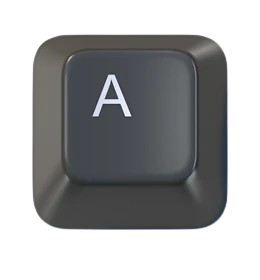
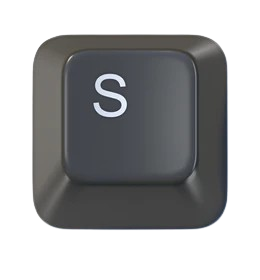
add Buttons

Changed region(s): [[0.3385, 0.2571, 0.5231, 0.4286]]

diff --git a/Deliverable 3/src/main/java/edu/vanier/template/controllers/GameFXMLController.java b/Deliverable 3/src/main/java/edu/vanier/template/controllers/GameFXMLController.java
@@ -83,7 +83,7 @@ public class GameFXMLController {
     BackpackFXMLController backpackFXMLController;
     MapFXMLController mapFXMLController;
 
-    public void addPlatforms(List<Platform> platformList) {
+    public void setWorldSprites(List<Platform> platformList) {
         if (currentFamily.getLayoutType().equals("A")) {
             Platform.setPlatformsTypeA(currentFamily, platformList);
         } else if (currentFamily.getLayoutType().equals("B")) {
@@ -101,7 +101,6 @@ public class GameFXMLController {
         } else if (currentFamily.getLayoutType().equals("3.2")) {
             Platform.setPlatformsType32(currentFamily, platformList);
         }
-
     }
 
     public void setWorld() {
@@ -162,7 +161,7 @@ public class GameFXMLController {
         Platform platformFloor = new Platform(0, (int)BaseWindow.sceneHeight - 100, "floor", (int)BaseWindow.sceneWidth, 100, imgPlatformFloor);
         Canvas canvas = new Canvas(BaseWindow.sceneWidth, BaseWindow.sceneHeight);
         mainPane.getChildren().addAll(canvas, platformFloor);
-        addPlatforms(platformList);
+        setWorldSprites(platformList);
 
         Portal portal = new Portal((int)BaseWindow.sceneWidth - 30, (int)BaseWindow.sceneHeight - 200 - (int)platformFloor.getHeight(), 30, 200, imgPortal, QUESTIONEX2_SCENE);
         //user should first build the atom, below line directs them to build atom after collecting electrons and protons from the game scene
@@ -190,25 +189,30 @@ public class GameFXMLController {
         player.setBounds(0,(int) canvas.getWidth(), 0,
                 (int) canvas.getHeight() - (int) platformFloor.getHeight());
 
-        List<Sprite> electronList = new ArrayList<>();
-        List<Sprite> protonList = new ArrayList<>();
+        //TODO: Generalize this code from being electrons and protons to being any sprite
+        List<Sprite> sprite1List = new ArrayList<>();
+        List<Sprite> sprite2List = new ArrayList<>();
 
         for (int i = 0; i < 15; i++) {
+            //TODO: generalize
             Sprite electron = new Sprite("electron", electronImg);
+            Sprite proton = new Sprite("proton", protonImg);
             electron.setSize(30 * BaseWindow.sceneHeight / 770);
+            proton.setSize(30 * BaseWindow.sceneHeight / 770);
             electron.setImage(electronImg);
+            proton.setImage(protonImg);
+
+            //position should be set with  the rest of the platforms
             double px1 = BaseWindow.sceneWidth * 0.7 * Math.random() + 50;
             double py1 = BaseWindow.sceneHeight * 0.7 * Math.random() + 50;
-            electron.setPosition(px1, py1);
-            electronList.add(electron);
-            Sprite proton = new Sprite("proton", protonImg);
-            proton.setSize(30 * BaseWindow.sceneHeight / 770);
-            proton.setImage(protonImg);
+
             double px = BaseWindow.sceneWidth * 0.7 * Math.random() + 50;
             double py = BaseWindow.sceneHeight * 0.7 * Math.random() + 50;
-            proton.setPosition(px, py);
-            protonList.add(proton);
 
+            electron.setPosition(px1, py1);
+            proton.setPosition(px, py);
+            sprite2List.add(proton);
+            sprite1List.add(electron);
         }
 
         animation = new AnimationTimer() {
@@ -312,11 +316,12 @@ public class GameFXMLController {
                     portal.unlock();
 
                 // Electron collection logic
-                Iterator<Sprite> electronIter = electronList.iterator();
-                while (electronIter.hasNext()) {
-                    Sprite electron = electronIter.next();
+                Iterator<Sprite> sprite1Iter = sprite1List.iterator();
+                while (sprite1Iter.hasNext()) {
+                    //TODO for logic of electron check if name is electron
+                    Sprite electron = sprite1Iter.next();
                     if (player.intersects(electron)) {
-                        electronIter.remove();
+                        sprite1Iter.remove();
                         itemClip.play();
                         System.out.println("interacting with a sprite");
                         score--;
@@ -334,11 +339,11 @@ public class GameFXMLController {
                         //we'll also need protons but this can be done for deliverable three (the differentiation)
                     }
                 }
-                Iterator<Sprite> protonIter = protonList.iterator();
-                while (protonIter.hasNext()) {
-                    Sprite proton = protonIter.next();
+                Iterator<Sprite> sprite2Iter = sprite2List.iterator();
+                while (sprite2Iter.hasNext()) {
+                    Sprite proton = sprite2Iter.next();
                     if (player.intersects(proton)) {
-                        protonIter.remove();
+                        sprite2Iter.remove();
                         itemClip.play();
                         score++;
                         protonNum++;
@@ -359,10 +364,10 @@ public class GameFXMLController {
                 gc.clearRect(0, 0, canvasWidth, canvasHeight);
                 player.render(gc);
                 portal.render(gc);
-                for (Sprite electron : electronList) {
+                for (Sprite electron : sprite1List) {
                     electron.render(gc);
                 }
-                for (Sprite proton : protonList) {
+                for (Sprite proton : sprite2List) {
                     proton.render(gc);
                 }
 
@@ -416,8 +421,8 @@ public class GameFXMLController {
                     reuploadedSprite.setPosition(positionX, positionY);
 
                     switch (spriteType) {
-                        case "electron" -> electronList.add(reuploadedSprite);
-                        case "proton" -> protonList.add(reuploadedSprite);
+                        case "electron" -> sprite1List.add(reuploadedSprite);
+                        case "proton" -> sprite2List.add(reuploadedSprite);
                     }
                     mainPane.getChildren().add(reuploadedSprite);
                 }

diff --git a/Deliverable 3/src/main/java/edu/vanier/template/controllers/HelpFXMLController.java b/Deliverable 3/src/main/java/edu/vanier/template/controllers/HelpFXMLController.java
@@ -1,5 +1,6 @@
 package edu.vanier.template.controllers;
 
+import edu.vanier.template.helpers.FxUIHelper;
 import edu.vanier.template.ui.BaseWindow;
 import edu.vanier.template.ui.MainApp;
 import edu.vanier.template.ui.MainMenu;
@@ -20,6 +21,8 @@ import org.slf4j.LoggerFactory;
 import java.util.HashMap;
 import java.util.List;
 import java.util.Map;
+
+import static edu.vanier.template.helpers.FxUIHelper.setSizeBtn;
 
 /**
  * @author Tabasuum
@@ -142,17 +145,17 @@ public class HelpFXMLController {
         Image jumpImg = new Image(MainAppFXMLController.class.
                 getResource("/images/commands/w.png").toString());
         jumpImgView.setImage(jumpImg);
-        setSizeImg(jumpImgView);
+        FxUIHelper.setSizeImg(jumpImgView);
 
         Image leftImg = new Image(MainAppFXMLController.class.
                 getResource("/images/commands/a.png").toString());
         leftImgView.setImage(leftImg);
-        setSizeImg(leftImgView);
+        FxUIHelper.setSizeImg(leftImgView);
 
         Image rightImg = new Image(MainAppFXMLController.class.
-                getResource("/images/commands/s.png").toString());
+                getResource("/images/commands/d.png").toString());
         rightImgView.setImage(rightImg);
-        setSizeImg(rightImgView);
+        FxUIHelper.setSizeImg(rightImgView);
 
         Button[] buttons = {commandsBtn,periodsBtn, electronsBtn,stoichiometryBtn,neutralizationBtn, photosynthesisBtn, settingBtn};
         for (Button btn : buttons) {
@@ -195,28 +198,10 @@ public class HelpFXMLController {
     }
 
     /**
-     * Makes images proportional to screen size
-     * @param imageView different images
-     */
-    private void setSizeImg(ImageView imageView) {
-        imageView.setFitWidth(BaseWindow.sceneWidth * 0.25);
-        imageView.setFitHeight(BaseWindow.sceneHeight * 0.25);
-    }
-
-    /**
-     * Makes buttons proportional to screen size
-     * @param button
-     */
-    private void setSizeBtn(Button button) {
-        button.setMinSize(BaseWindow.sceneWidth * 0.20, BaseWindow.sceneHeight * 0.05);
-        button.setMaxSize(BaseWindow.sceneWidth * 0.20, BaseWindow.sceneHeight * 0.05);
-    }
-
-    /**
      * Brings back to settings scene
      * @param e
      */
-    private void handleSettings(Event e) {
+    public void handleSettings(Event e) {
         System.out.println("Going to settings...");
         MainMenu.switchScene(MainMenu.SETTINGS_SCENE);
         logger.info("Settings has been clicked...");

diff --git a/Deliverable 3/src/main/java/edu/vanier/template/helpers/FxUIHelper.java b/Deliverable 3/src/main/java/edu/vanier/template/helpers/FxUIHelper.java
@@ -1,8 +1,15 @@
 package edu.vanier.template.helpers;
 
 import java.io.IOException;
+import java.util.logging.Logger;
+
+import edu.vanier.template.ui.BaseWindow;
+import edu.vanier.template.ui.MainMenu;
+import javafx.event.Event;
 import javafx.fxml.FXMLLoader;
 import javafx.scene.Parent;
+import javafx.scene.control.Button;
+import javafx.scene.image.ImageView;
 
 /**
  *
@@ -49,4 +56,23 @@ public class FxUIHelper {
         }
         return fxmlLoader.load();
     }
+
+    /**
+     * Makes images proportional to screen size
+     * @param imageView different images
+     */
+    public static void setSizeImg(ImageView imageView) {
+        imageView.setFitWidth(BaseWindow.sceneWidth * 0.25);
+        imageView.setFitHeight(BaseWindow.sceneHeight * 0.25);
+    }
+
+    /**
+     * Makes buttons proportional to screen size
+     * @param button
+     */
+    public static void setSizeBtn(Button button) {
+        button.setMinSize(BaseWindow.sceneWidth * 0.20, BaseWindow.sceneHeight * 0.05);
+        button.setMaxSize(BaseWindow.sceneWidth * 0.20, BaseWindow.sceneHeight * 0.05);
+    }
+
 }

diff --git a/Deliverable 3/src/main/java/edu/vanier/template/controllers/MainMenuFXMLController.java b/Deliverable 3/src/main/java/edu/vanier/template/controllers/MainMenuFXMLController.java
@@ -48,8 +48,22 @@ public class MainMenuFXMLController {
         settingsBtn.setOnAction(this::loadSettingsScene);
         MainMenu.setUI(borderPane, titleImgView, "title.png");
 
+//        setButton(loginBtn, "login");
+//        setButton(createAccountBtn, "createAcc");
+//        setButton(settingsBtn, "settings");
     }
 
+    private void setButton(Button button, String string) {
+        Image image = new Image(getClass().getResource("/images/buttons/" + string +".png").toExternalForm());
+        ImageView imageView = new ImageView(image);
+
+        imageView.setFitWidth(BaseWindow.sceneWidth * 0.1);  // adjust size as needed
+        imageView.setFitHeight(BaseWindow.sceneWidth * 0.1);
+
+        button.setGraphic(imageView);
+        button.setStyle("-fx-background-color: transparent; -fx-border-color: transparent;");
+        button.setText(null);
+    }
     /**
      * switches to the login scene/page
      * @param e is the action of clicking the login button, directing the user to the login page

diff --git a/Deliverable 3/src/main/java/edu/vanier/template/controllers/InstructionFXMLController.java b/Deliverable 3/src/main/java/edu/vanier/template/controllers/InstructionFXMLController.java
@@ -56,7 +56,7 @@ public class InstructionFXMLController {
         setSizeImg(leftImgView);
 
         Image rightImg = new Image(MainAppFXMLController.class.
-                getResource("/images/commands/s.png").toString());
+                getResource("/images/commands/d.png").toString());
         rightImgView.setImage(rightImg);
         setSizeImg(rightImgView);
 
